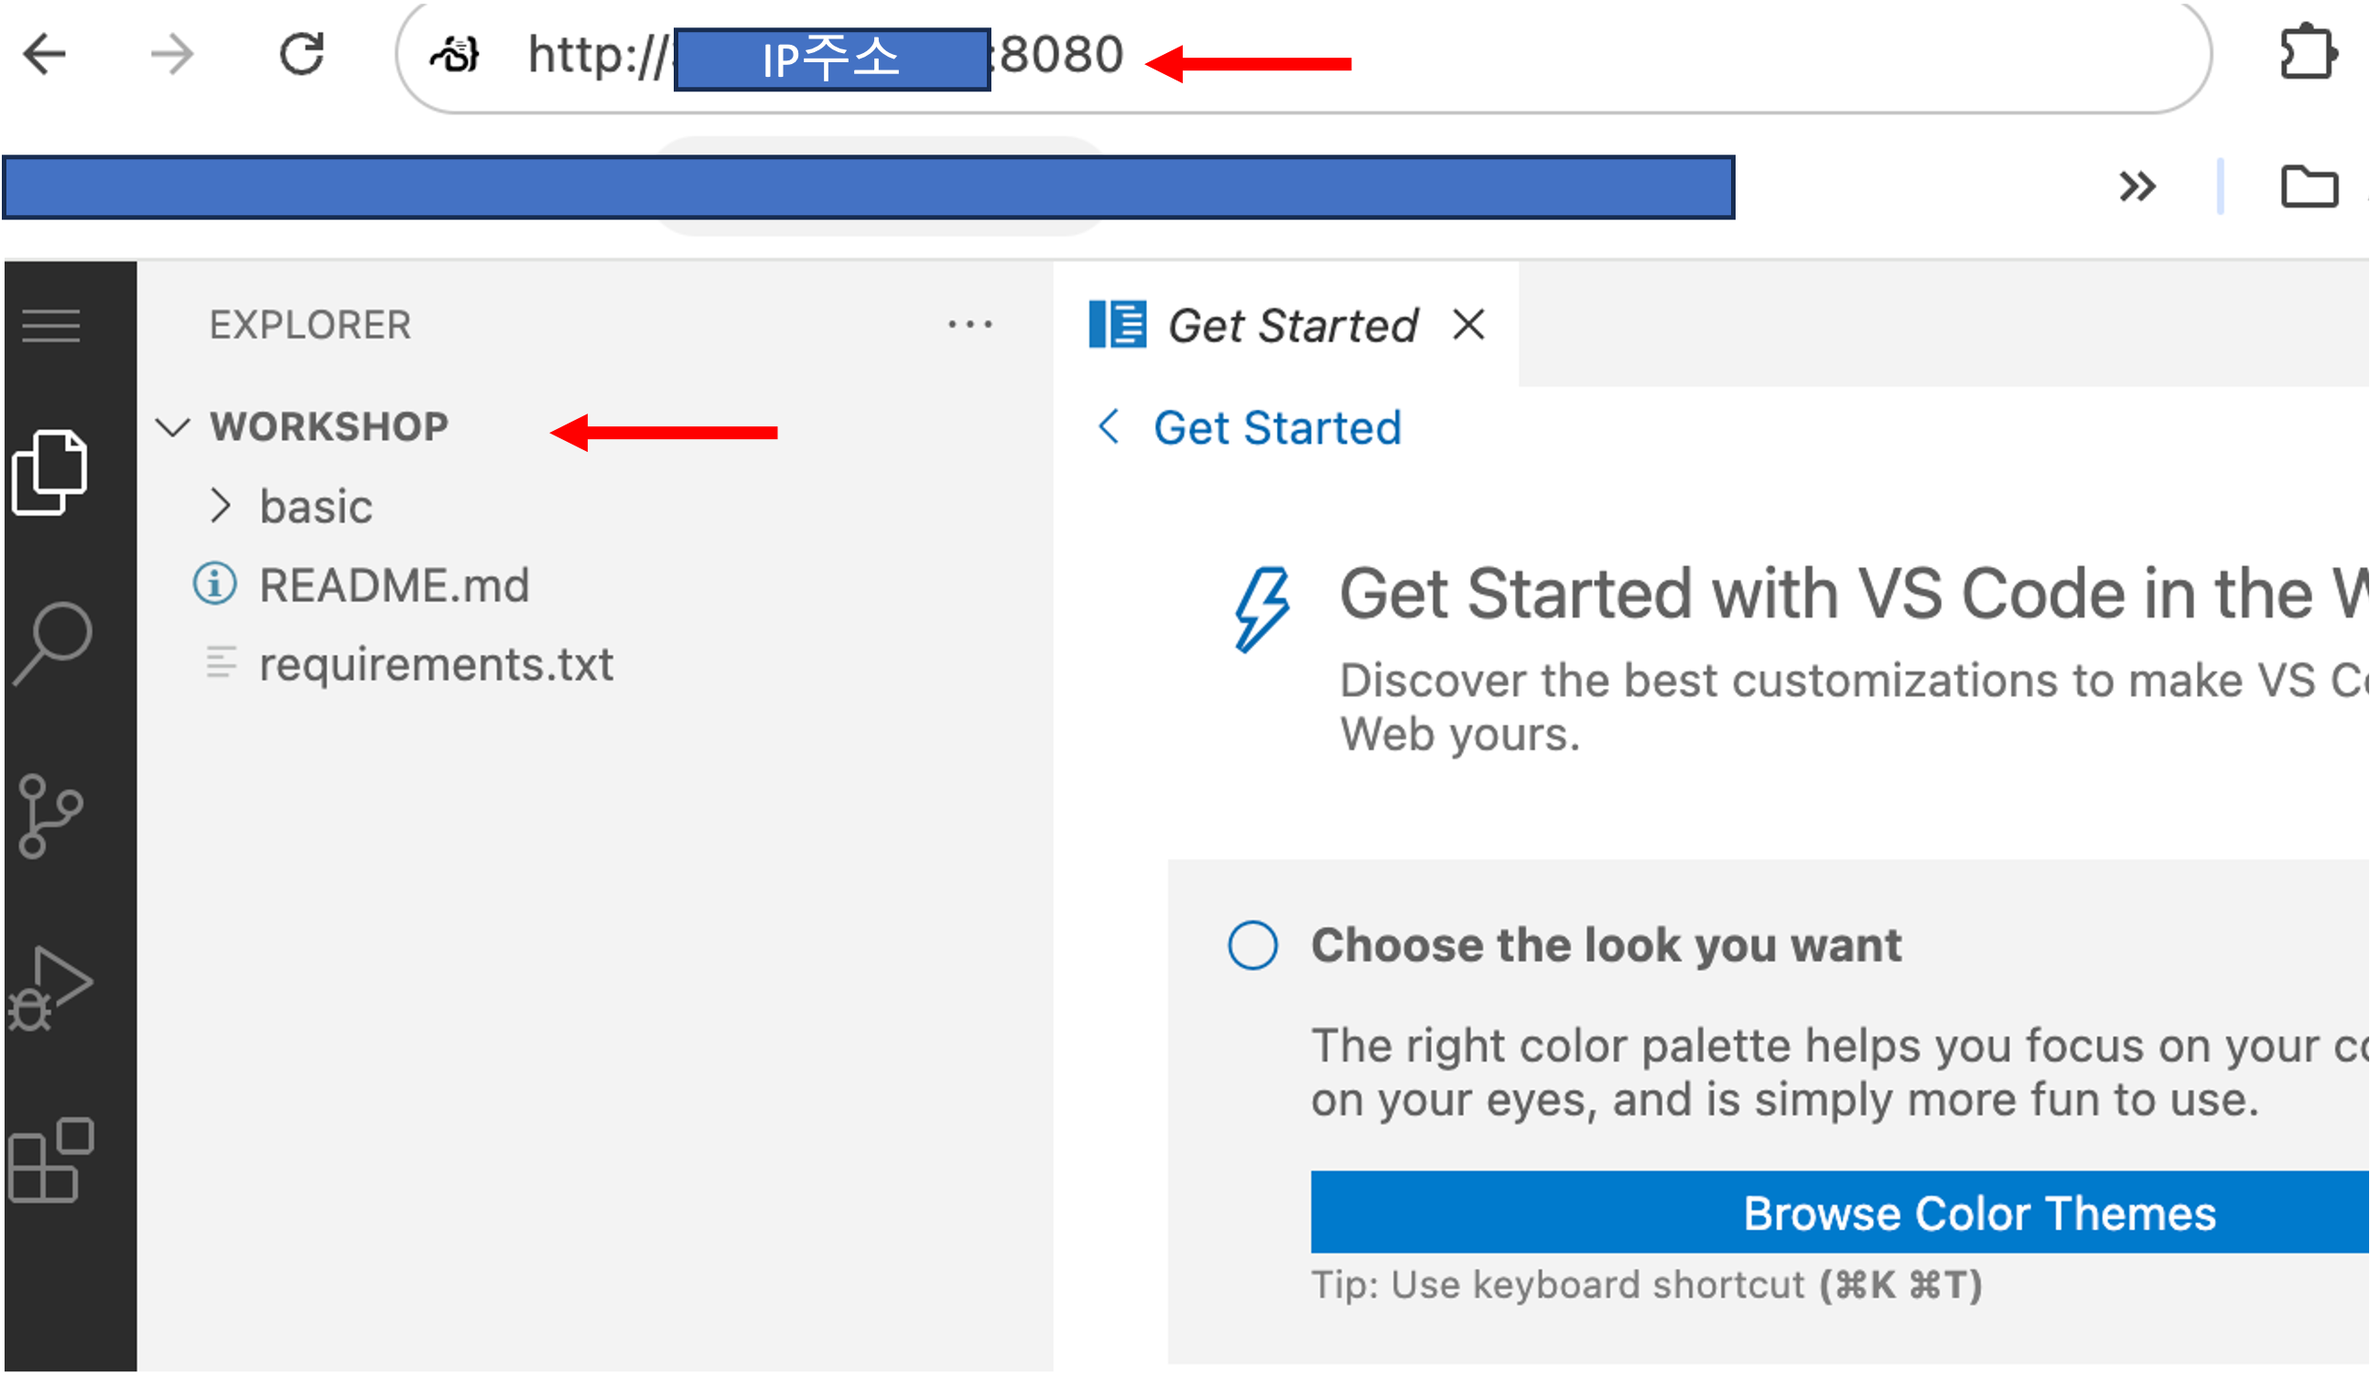
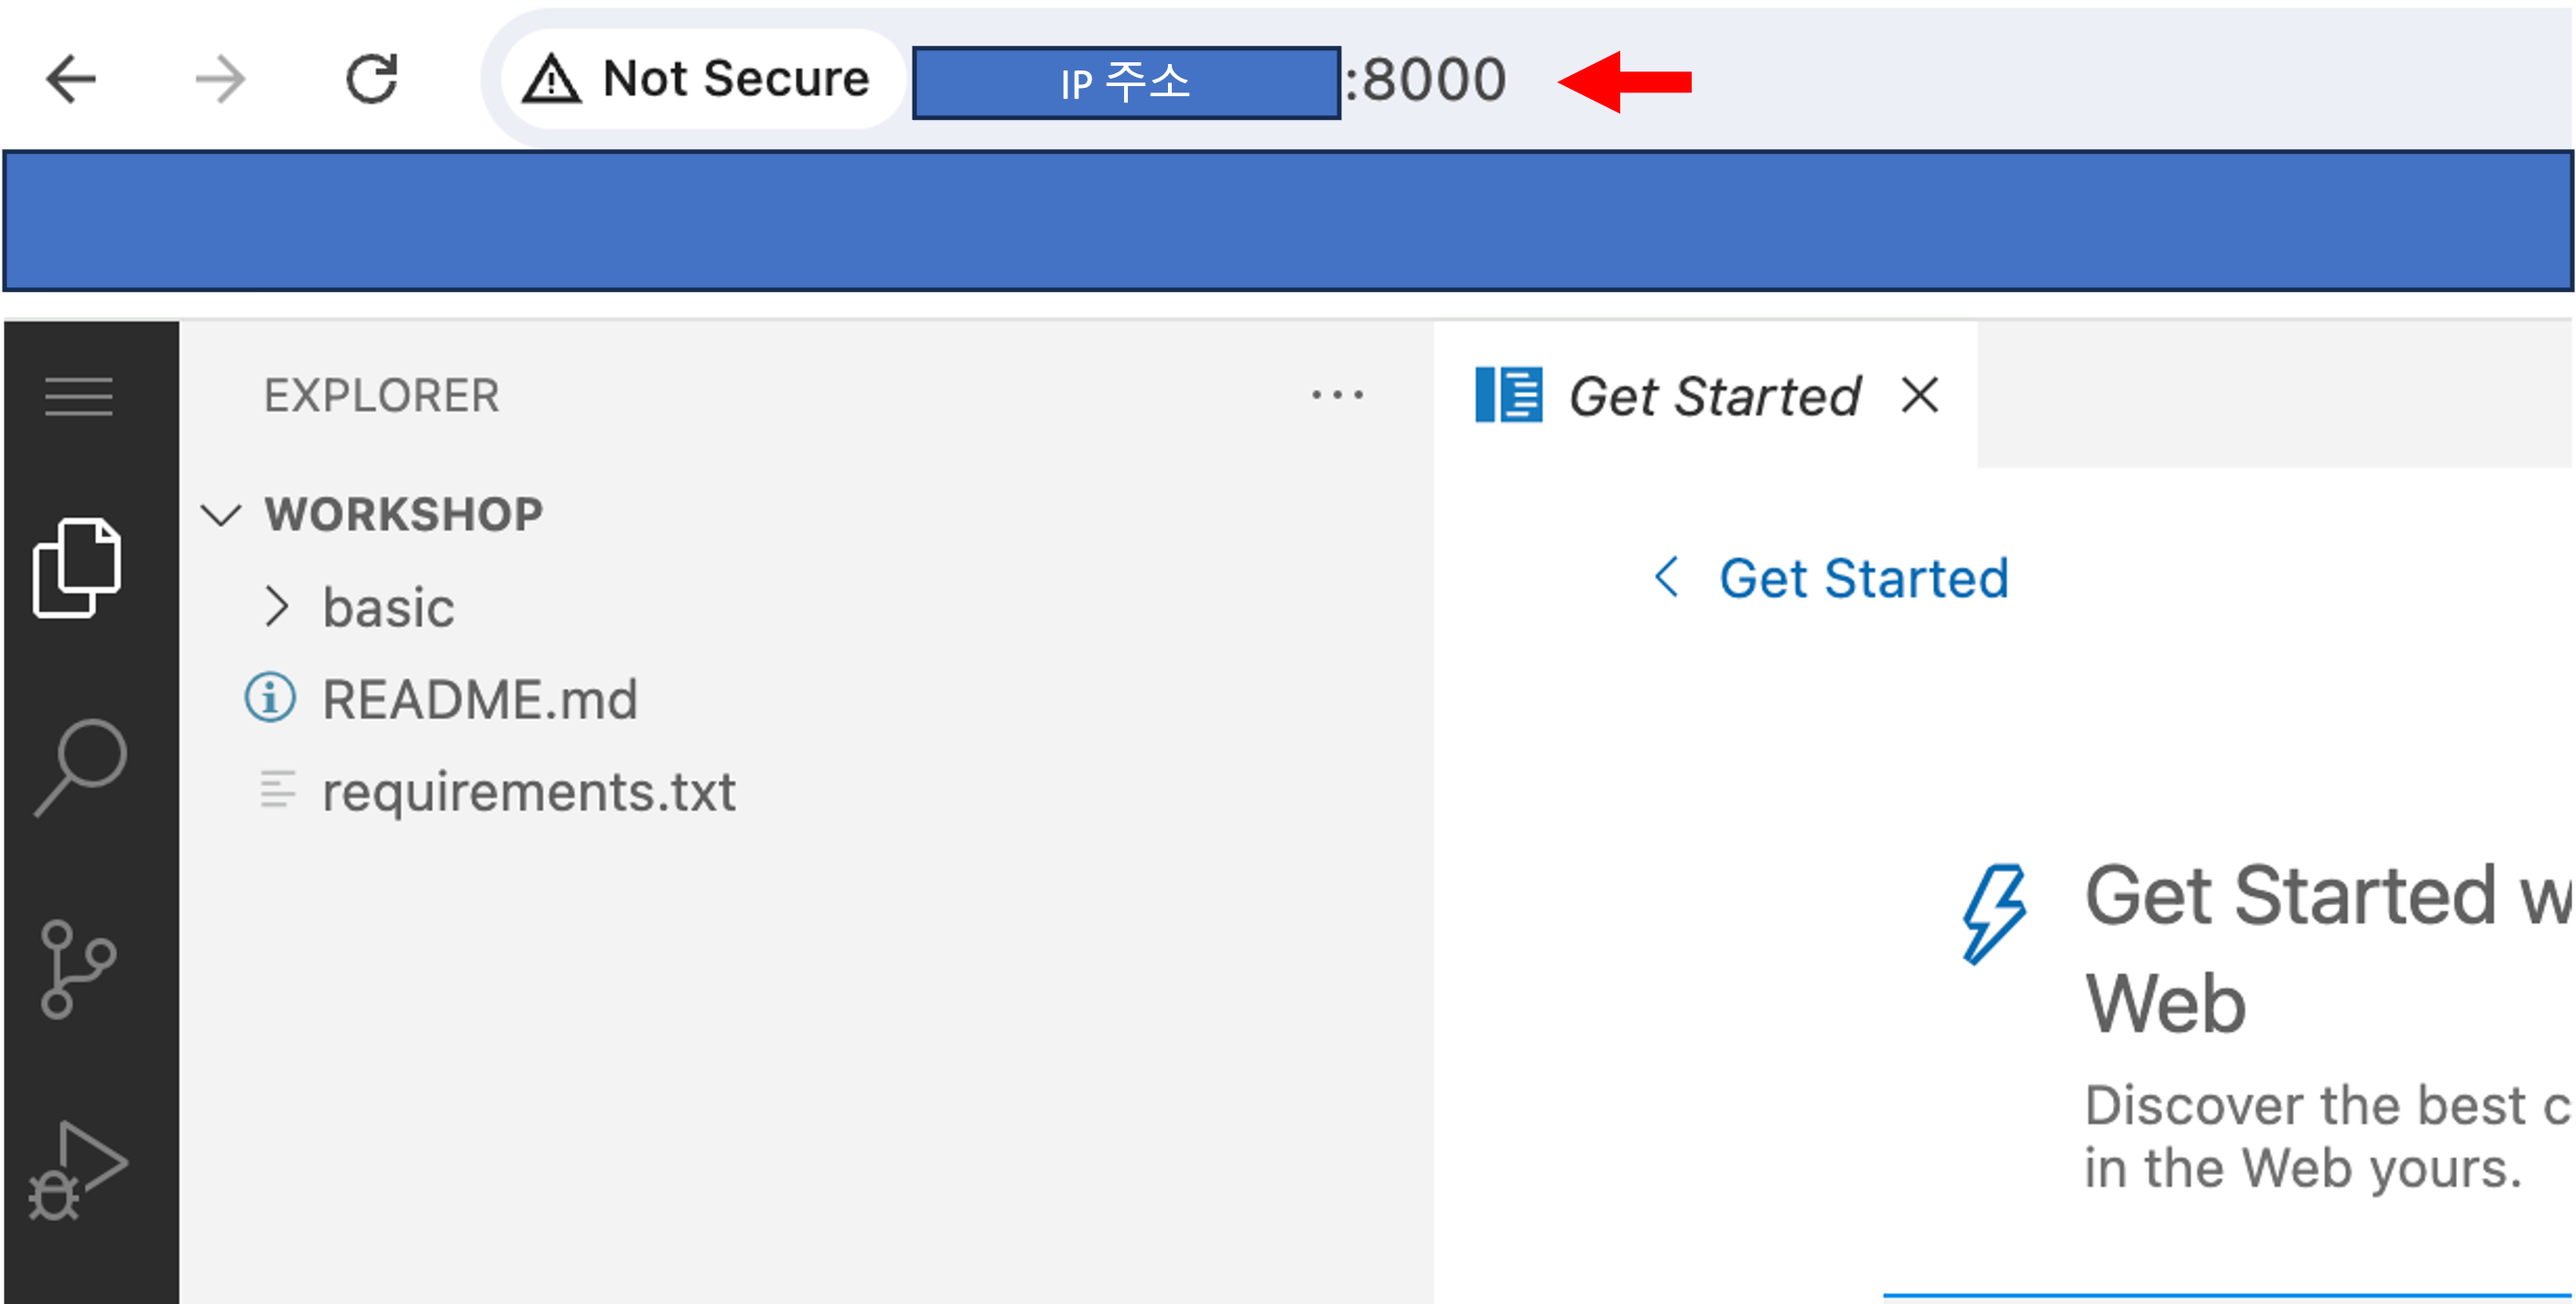
8000포트 로 변경

diff --git a/README.md b/README.md
@@ -91,7 +91,7 @@ CloudFormation 콘솔의 스택 상세 정보에서 "출력(Outputs)" 탭을 확
 
 ### 9. vscode on server 접속
 
-출력에서 확인한 Ip 주소를 바탕으로 "http://Ip주소:8080" 로 vscode 에 접속합니다. EC2 구동으로 인해 초기 몇분은 접속이 안될수 있습니다.
+출력에서 확인한 Ip 주소를 바탕으로 "http://Ip주소:8000" 로 vscode 에 접속합니다. EC2 구동으로 인해 초기 몇분은 접속이 안될수 있습니다.
 
 ![Picture9.png](static/Picture9.png)
 
